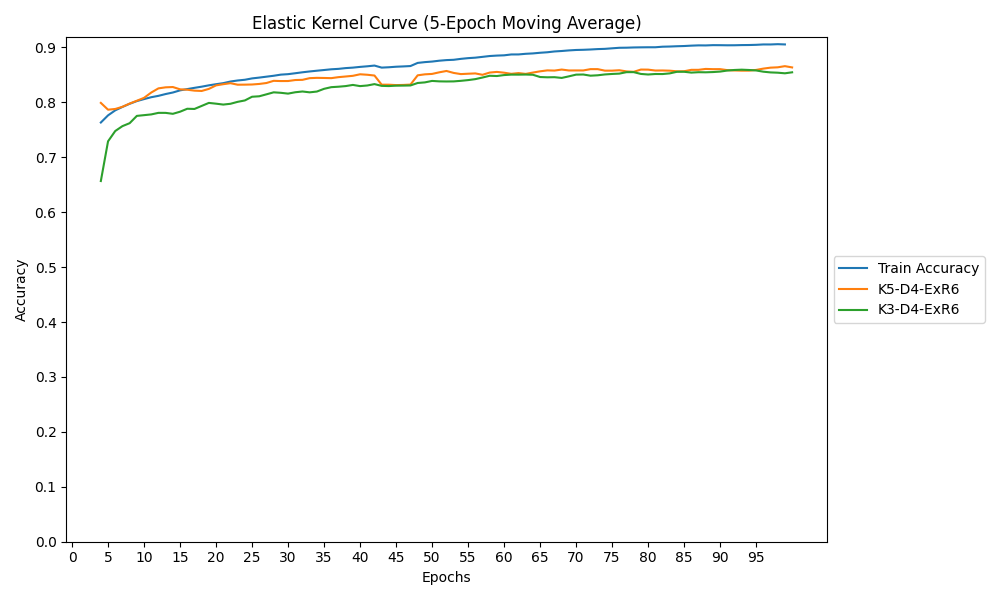
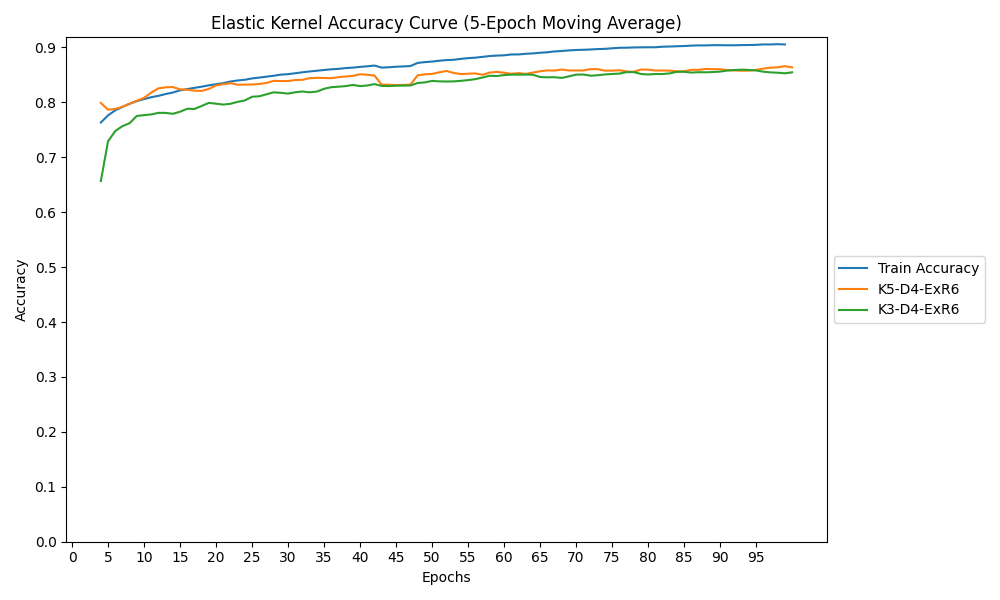
added new plots for cifar10, k=[3,5,7]

Changed region(s): [[0.217, 0.03, 0.682, 0.06]]

diff --git a/ofa/utils.py b/ofa/utils.py
@@ -31,7 +31,7 @@ def plot_curves(train_accuracy, test_accuracy, title):
     plt.show()
 
 if __name__ == "__main__":
-    f = open('../experiments/cifar10_100_epochs_per_stage_1650861792/big_network_results.json')
+    '''f = open('../experiments/cifar10_100_epochs_per_stage_1650861792/big_network_results.json')
     data = json.load(f)
     plot_curves(data['train_accuracies'],data['val_accuracies'], 'Big Network Accuracy Curve (5-Epoch Moving Average)')
     
@@ -41,16 +41,24 @@ if __name__ == "__main__":
     
     f = open('../experiments/cifar10_100_epochs_per_stage_1650861792/elastic_depth_stage_2_results.json')
     data = json.load(f)
-    plot_curves(data['train_accuracies'], data['val_accuracies'], 'Elastic Depth Stage 2 Accuracy Curve (5-Epoch Moving Average)')
+    plot_curves(data['train_accuracies'], data['val_accuracies'], 'Elastic Depth Stage 2 Accuracy Curve (5-Epoch Moving Average)')'''
     
-    f = open('../experiments/cifar10_100_epochs_per_stage_1650861792/elastic_kernel_results.json')
+    f = open('../experiments/mnist_100_epochs_per_stage_1650946373/elastic_kernel_results.json')
     data = json.load(f)
-    plot_curves(data['train_accuracies'], data['val_accuracies'], 'Elastic Kernel Curve (5-Epoch Moving Average)')
+    plot_curves(data['train_accuracies'], data['val_accuracies'], 'Elastic Kernel Accuracy Curve (5-Epoch Moving Average)')
     
-    f = open('../experiments/cifar10_100_epochs_per_stage_1650861792/elastic_width_stage_1_results.json')
+    '''f = open('../experiments/cifar10_100_epochs_per_stage_1650861792/elastic_width_stage_1_results.json')
     data = json.load(f)
     plot_curves(data['train_accuracies'], data['val_accuracies'], 'Elastic Width Stage 1 Accuracy Curve (5-Epoch Moving Average)')
     
     f = open('../experiments/cifar10_100_epochs_per_stage_1650861792/elastic_width_stage_2_results.json')
     data = json.load(f)
     plot_curves(data['train_accuracies'], data['val_accuracies'], 'Elastic Width Stage 2 Accuracy Curve (5-Epoch Moving Average)')
+
+    f = open('../experiments/cifar10_k357_elastic_kernel_results.json')
+    data = json.load(f)
+    plot_curves(data['train_accuracies'], data['val_accuracies'], 'Elastic Kernel Accuracy Curve (5-Epoch Moving Average) (kernel_choices = [3,5,7])')
+
+    f = open('../experiments/cifar10_k357_big_network_results.json')
+    data = json.load(f)
+    plot_curves(data['train_accuracies'], data['val_accuracies'], 'Big Network Accuracy Curve (5-Epoch Moving Average) (kernel_choices = [3,5,7])')'''
